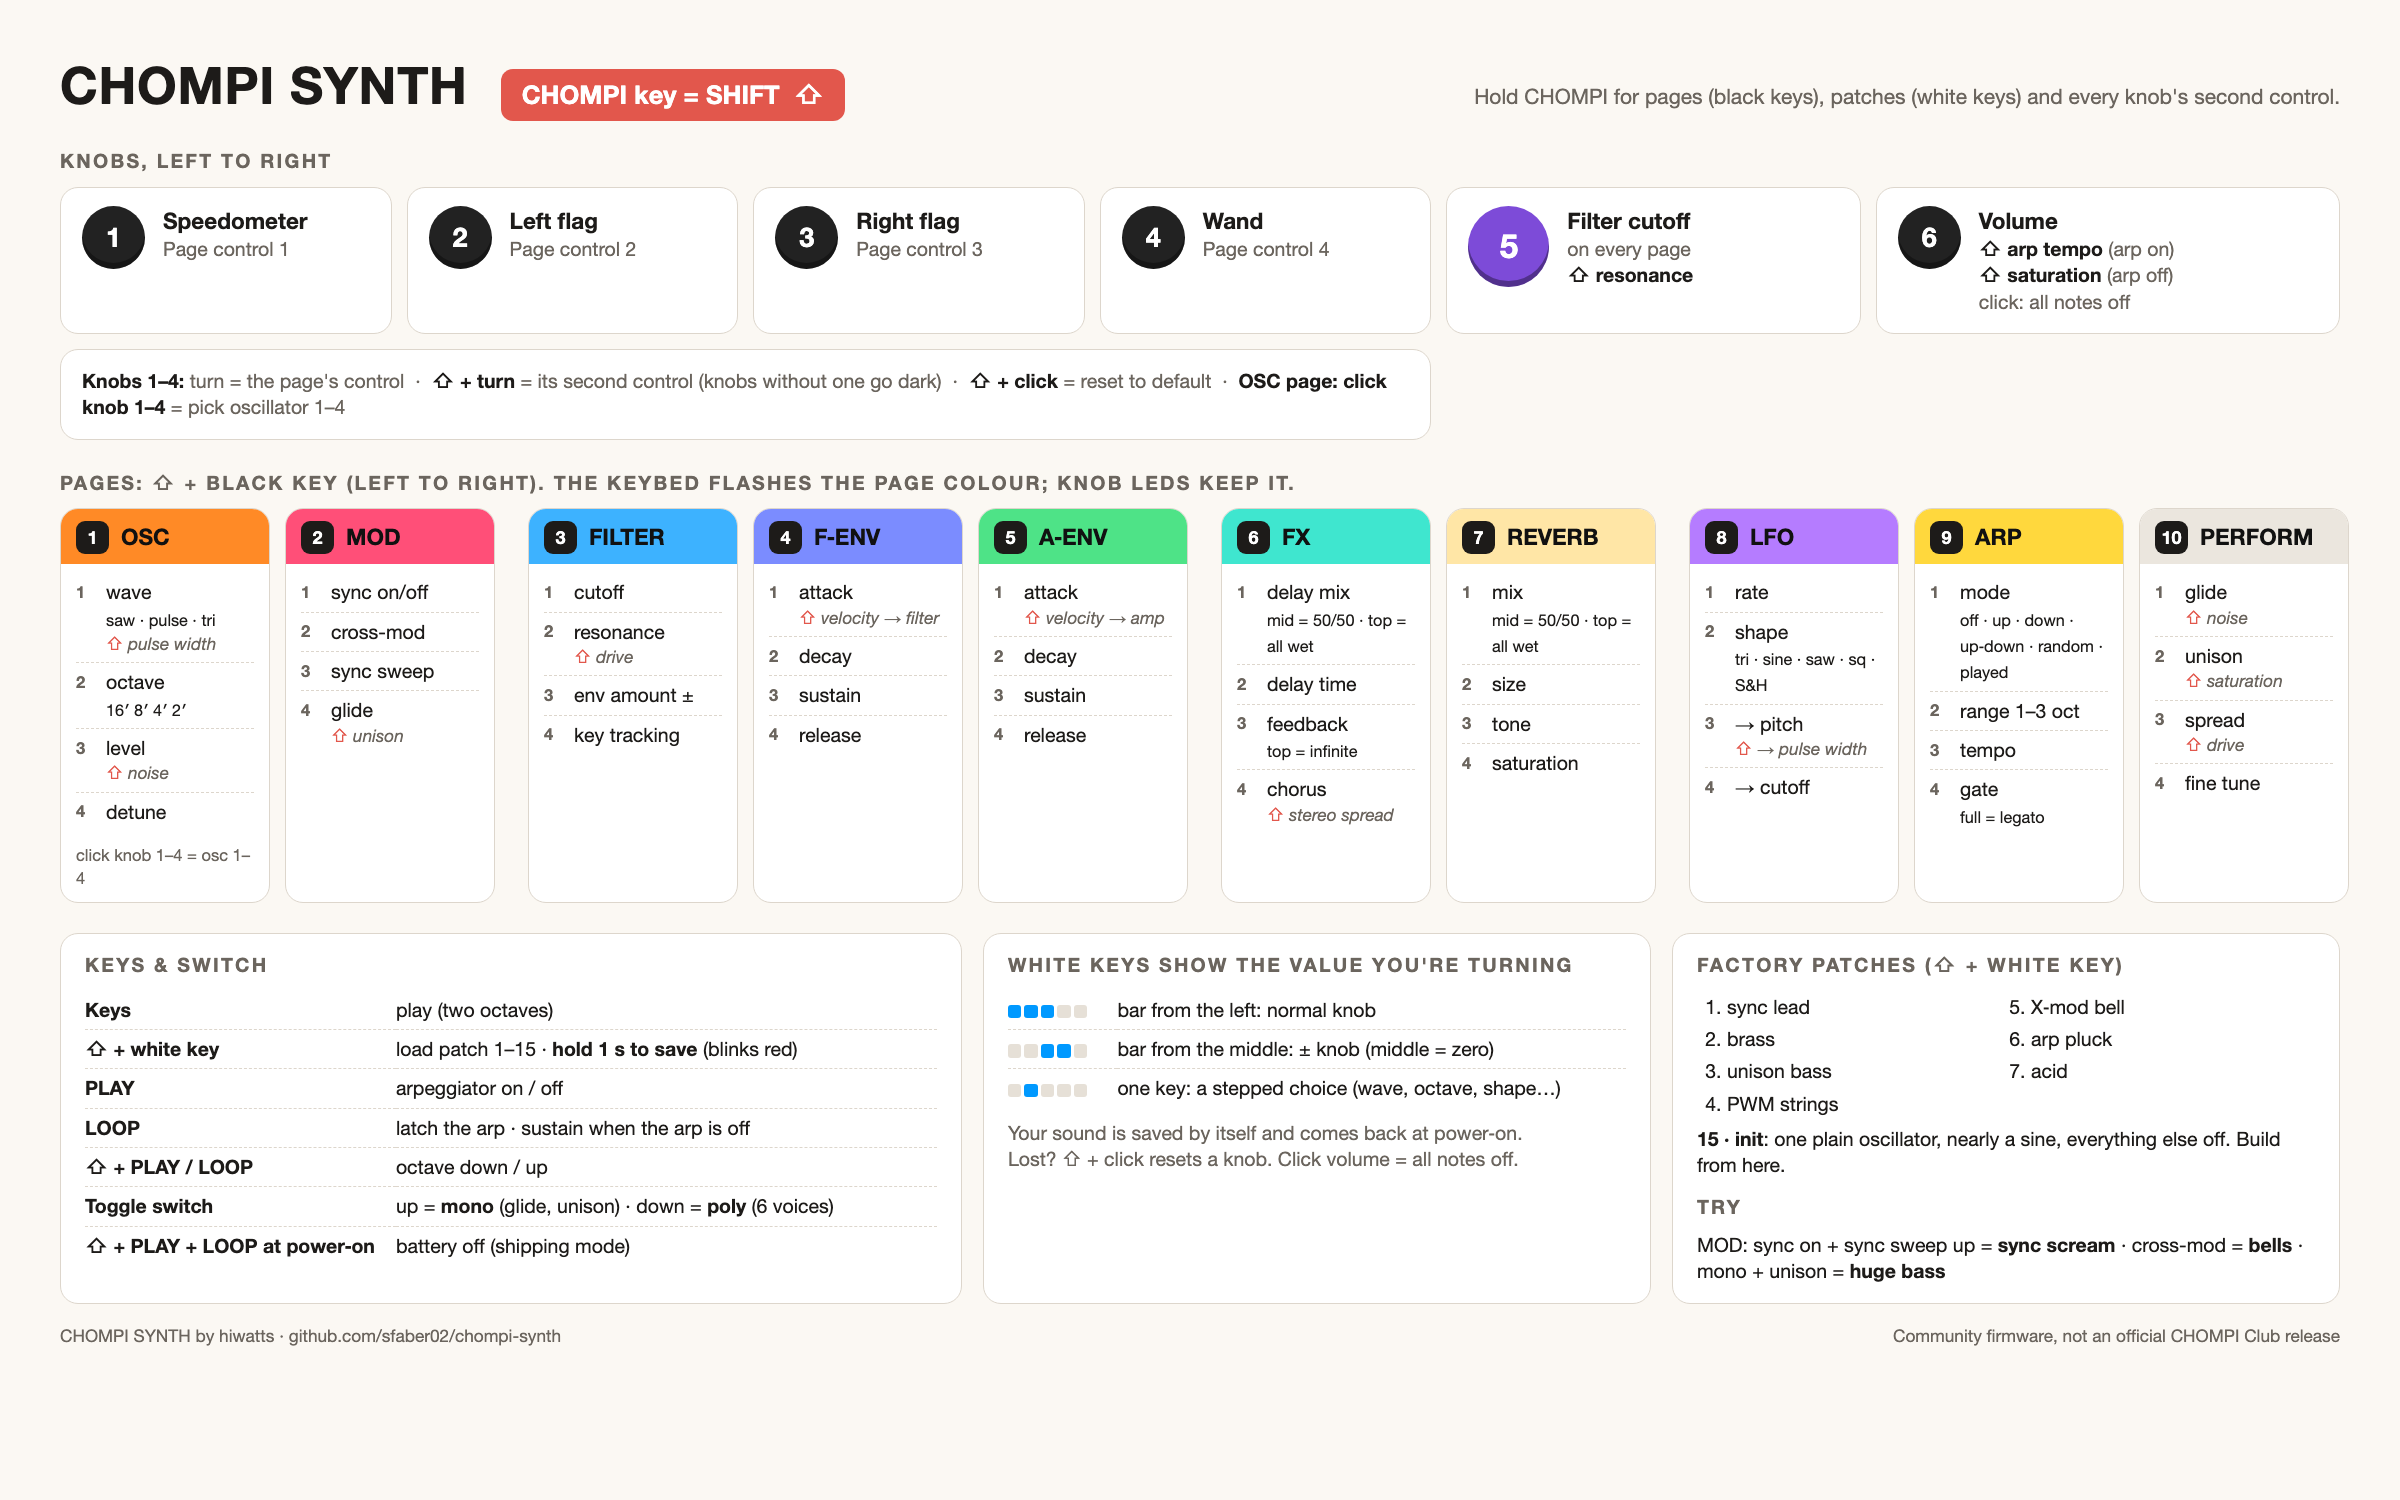
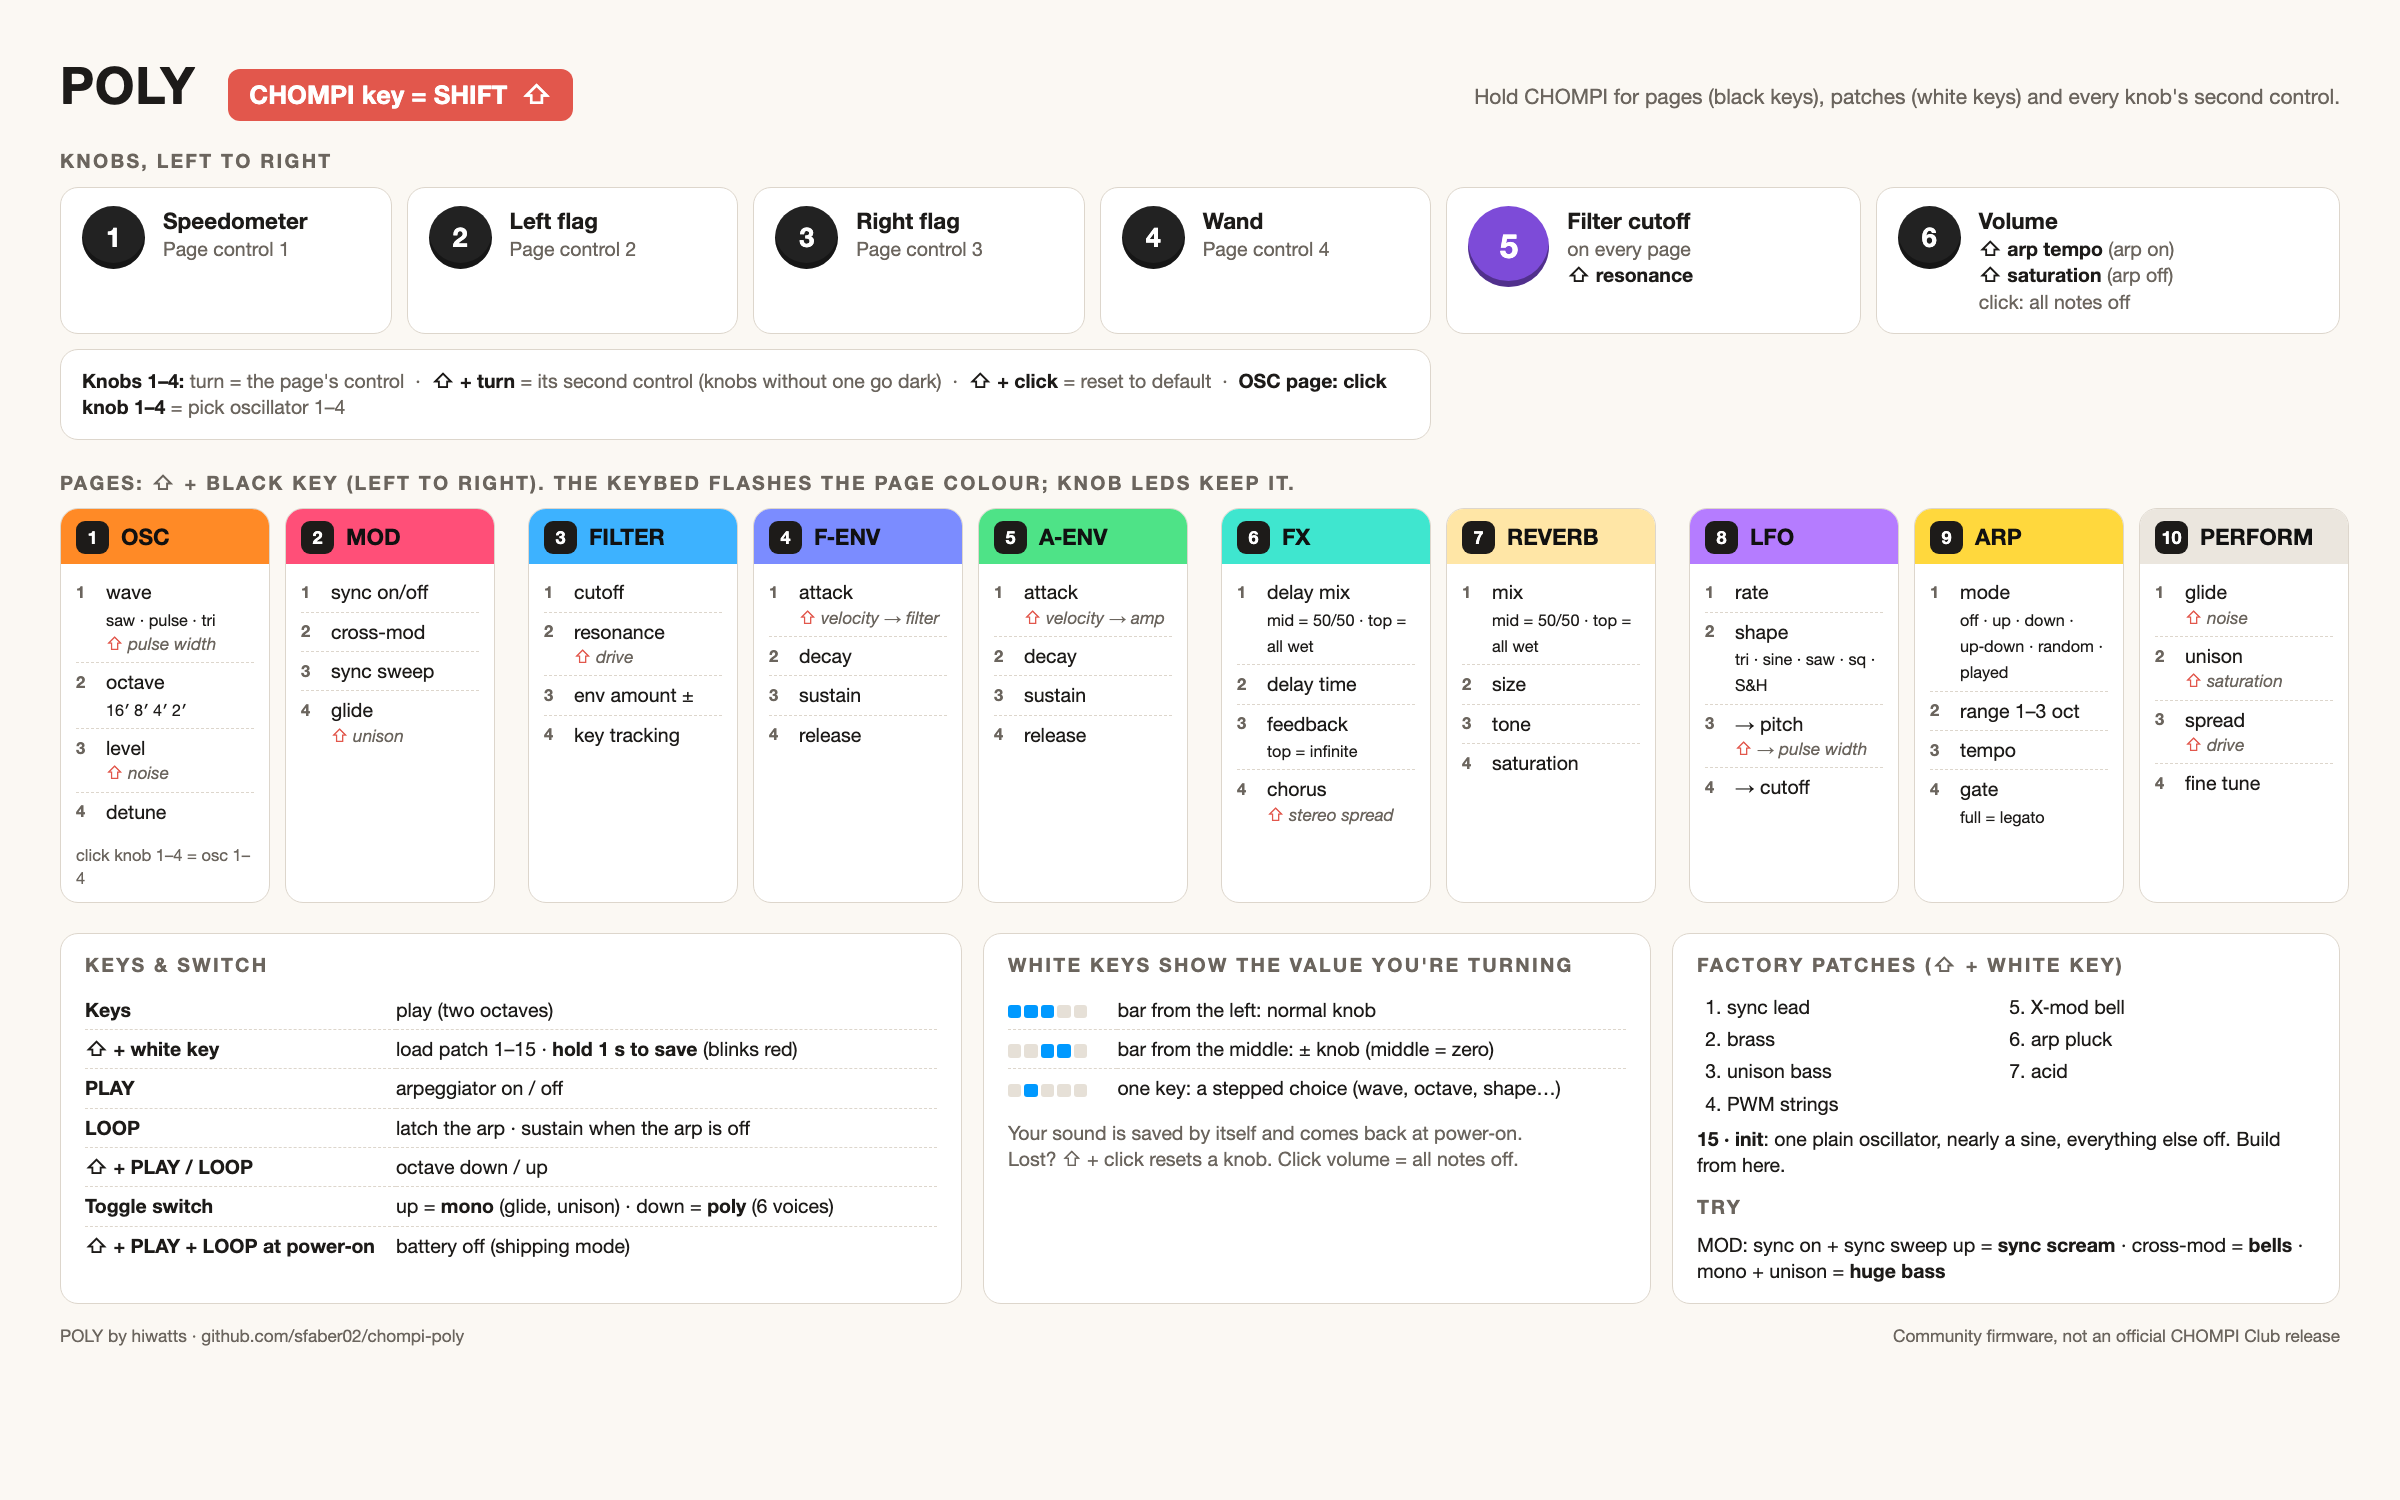
Rename the firmware to POLY
Card folder /SYNTH -> /POLY (renamed automatically on first boot so
saved patches carry over), firmware file NN_POLY.bin, docs, cheat sheet
and install script follow. Internal code layout (code/src/synth/) and
the synth:: namespace are unchanged.

Changed region(s): [[0.0312, 0.0307, 0.375, 0.092], [0.0312, 0.8893, 0.125, 0.92], [0.1562, 0.8893, 0.2188, 0.92]]

diff --git a/docs/cheatsheet.html b/docs/cheatsheet.html
@@ -2,7 +2,7 @@
 <html lang="en">
 <head>
 <meta charset="utf-8">
-<title>CHOMPI SYNTH cheat sheet</title>
+<title>POLY cheat sheet</title>
 <style>
   @page { size: A4 landscape; margin: 8mm; }
   :root {
@@ -77,7 +77,7 @@
 <div class="sheet">
 
 <header>
-  <h1>CHOMPI SYNTH</h1>
+  <h1>POLY</h1>
   <span class="rule">CHOMPI key = SHIFT &nbsp;⇧</span>
   <span class="sub">Hold CHOMPI for pages (black keys), patches (white keys) and every knob's second control.</span>
 </header>
@@ -224,7 +224,7 @@
 </div>
 
 <footer>
-  <span>CHOMPI SYNTH by hiwatts · github.com/sfaber02/chompi-synth</span>
+  <span>POLY by hiwatts · github.com/sfaber02/chompi-poly</span>
   <span>Community firmware, not an official CHOMPI Club release</span>
 </footer>
 

diff --git a/code/src/chompi_main.cpp b/code/src/chompi_main.cpp
@@ -1,5 +1,5 @@
 /** @file chompi_main.cpp
- *  @brief CHOMPI SYNTH: a four-oscillator analog-style synth for the CHOMPI.
+ *  @brief POLY: a four-oscillator analog-style synth for the CHOMPI.
  *
  *  Two places code runs:
  *   1. AudioCallback(): the audio interrupt, every 24 samples (0.5 ms). Scans
@@ -220,8 +220,8 @@ int main(void)
 
     LedSetup();
 
-    // SD card. Everything we keep lives in /SYNTH; with no folder we stay in
-    // the root so a bare card still works.
+    // SD card. Everything we keep lives in /POLY, created if missing. Cards
+    // from before the rename have /SYNTH: it is renamed so patches carry over.
     System::Delay(100);
     SdmmcHandler::Config sd_cfg;
     sd_cfg.speed = SdmmcHandler::Speed::FAST;
@@ -231,10 +231,11 @@ int main(void)
     sd_ok = f_mount(&fsi.GetSDFileSystem(), fsi.GetSDPath(), 1) == FR_OK;
     if(sd_ok)
     {
-        if(f_chdir("/SYNTH") != FR_OK)
+        if(f_chdir("/POLY") != FR_OK)
         {
-            f_mkdir("/SYNTH");
-            f_chdir("/SYNTH");
+            if(f_rename("/SYNTH", "/POLY") != FR_OK)
+                f_mkdir("/POLY");
+            f_chdir("/POLY");
         }
         options.Init();
         midi_ch_in = options.midi_ch_in;

diff --git a/code/src/presets.h b/code/src/presets.h
@@ -2,8 +2,8 @@
  *  @brief Patches on the SD card as small text files, one "name value" per
  *  line, values 0..1:
  *
- *    /SYNTH/P01.txt .. P15.txt   the 15 slots (CHOMPI + white key)
- *    /SYNTH/current.txt          the sound as you left it, restored at boot
+ *    /POLY/P01.txt .. P15.txt   the 15 slots (CHOMPI + white key)
+ *    /POLY/current.txt          the sound as you left it, restored at boot
  *
  *  Unknown names are ignored and missing ones keep their current value, so
  *  files survive parameters being added or renamed. Writes go to a temp file

diff --git a/code/src/ui.h b/code/src/ui.h
@@ -84,7 +84,7 @@ class Ui
     volatile int  save_slot  = -1;
     volatile bool dirty      = false; // something changed since the last autosave
     volatile uint32_t last_change = 0;
-    volatile uint16_t slots_used  = 0; // bit n = /SYNTH/P(n+1).txt exists; main keeps it
+    volatile uint16_t slots_used  = 0; // bit n = /POLY/P(n+1).txt exists; main keeps it
 
     void Init(Hardware* hw, Engine* engine)
     {

diff --git a/host/render.cpp b/host/render.cpp
@@ -135,7 +135,7 @@ static std::vector<Note> Scale(int from, int to, float step, float gate)
 }
 
 // ---------------------------------------------------------------------------
-// Factory patches: written to card/SYNTH as P01.txt.. and rendered as demos.
+// Factory patches: written to card/POLY as P01.txt.. and rendered as demos.
 
 struct Factory
 {

diff --git a/code/src/diag.h b/code/src/diag.h
@@ -1,6 +1,6 @@
 /** @file diag.h
  *  @brief Debug event log (build with DIAG=1). The audio interrupt records
- *  events into a RAM ring; the main loop appends them to /SYNTH/diag.txt
+ *  events into a RAM ring; the main loop appends them to /POLY/diag.txt
  *  every couple of seconds.
  */
 #pragma once

diff --git a/README.md b/README.md
@@ -1,17 +1,19 @@
-# CHOMPI SYNTH
+# POLY
 
 An analog-style synth for the CHOMPI, after the Korg Mono/Poly. Each voice has four oscillators (saw, pulse with PWM, triangle) with hard sync and cross-mod. They feed a resonant 24 dB ladder filter, a filter envelope, an amp envelope and an LFO. After the voices come chorus, a ping-pong delay, reverb and saturation. There's also an arpeggiator. The toggle switch picks mono (with unison and glide) or 6-voice poly.
 
 It runs on its own like any stock CHOMPI firmware, or as one firmware on the [multi-firmware launcher](https://github.com/sfaber02/CHOMPI) card alongside TAPE, TEMPO and WAVE.
 
-> Status: beta. Download the latest from [Releases](https://github.com/sfaber02/chompi-synth/releases).
+> Status: beta. Download the latest from [Releases](https://github.com/sfaber02/chompi-poly/releases).
+>
+> Formerly "CHOMPI SYNTH". On first boot POLY renames an existing `/SYNTH` folder to `/POLY`, so saved patches carry over.
 
 ## Install
 
 ### On its own (like a stock firmware)
 
 1. Copy the firmware to the **root** of the card as `CHOMPI.bin`. It must be the only `.bin` in the root.
-2. Copy the `SYNTH` folder to the root.
+2. Copy the `POLY` folder to the root.
 3. Power on. The rainbow shows while the bootloader installs it, and from then on the CHOMPI boots straight into the synth.
 
 Or run `./install.sh --standalone /Volumes/YOUR_CARD`. To go back to another firmware, use a card with that firmware's `CHOMPI.bin`, the same as switching any stock firmware.
@@ -27,8 +29,8 @@ Either:
   ./install.sh /Volumes/YOUR_CARD 5      # or pick the key
   ```
 
-  This copies `/FIRMWARE/04_SYNTH.bin` and the factory patches into `/SYNTH`. It never overwrites patches you've saved.
-- or, with the launcher showing, send `code/src/build/CHOMPI.bin` to a free slot over USB MIDI. Then copy `card/SYNTH/` to the card yourself to get the factory patches.
+  This copies `/FIRMWARE/04_POLY.bin` and the factory patches into `/POLY`. It never overwrites patches you've saved.
+- or, with the launcher showing, send `code/src/build/CHOMPI.bin` to a free slot over USB MIDI. Then copy `card/POLY/` to the card yourself to get the factory patches.
 
 ## Playing it
 
@@ -51,7 +53,7 @@ It follows the stock CHOMPI idiom: **CHOMPI is shift.**
 | Toggle switch | Up = mono, down = poly |
 | CHOMPI + PLAY + LOOP at power-on | Shipping mode (battery off), as in the stock firmwares |
 
-When you turn a knob, the white keys briefly show its value as a bar. A centred bar means the knob is bipolar, and stepped settings light one key. Hold CHOMPI to see the page map on the black keys and your patch slots on the white keys: the patch you are on is blue, saved slots glow dim, empty slots are dark. Holding CHOMPI also turns the volume knob's LED into a CPU meter. The sound you leave is saved to `/SYNTH/current.txt` and comes back at power-on.
+When you turn a knob, the white keys briefly show its value as a bar. A centred bar means the knob is bipolar, and stepped settings light one key. Hold CHOMPI to see the page map on the black keys and your patch slots on the white keys: the patch you are on is blue, saved slots glow dim, empty slots are dark. Holding CHOMPI also turns the volume knob's LED into a CPU meter. The sound you leave is saved to `/POLY/current.txt` and comes back at power-on.
 
 ### Pages (black keys, left to right)
 
@@ -88,7 +90,7 @@ When you turn a knob, the white keys briefly show its value as a bar. A centred 
 ### MIDI
 
 - **Input:** DIN and USB.
-- **Channel:** set in `/SYNTH/options.json`.
+- **Channel:** set in `/POLY/options.json`.
 - **Notes:** with velocity.
 - **Other messages:** pitch bend (±2), mod wheel (CC 1, adds vibrato), sustain (CC 64), volume (CC 7), all notes off (CC 120/123).
 - **Parameter CCs:**
@@ -122,7 +124,7 @@ This produces `code/src/build/CHOMPI.bin`. The libraries in `code/libs` are CHOM
 ```
 make -C host
 host/render host/out                                   # test sounds
-host/render --factory card/SYNTH host/out/factory      # write factory patches + demos
+host/render --factory card/POLY host/out/factory      # write factory patches + demos
 python3 host/alias.py host/out/saw_sweep.wav           # aliasing check
 ```
 
